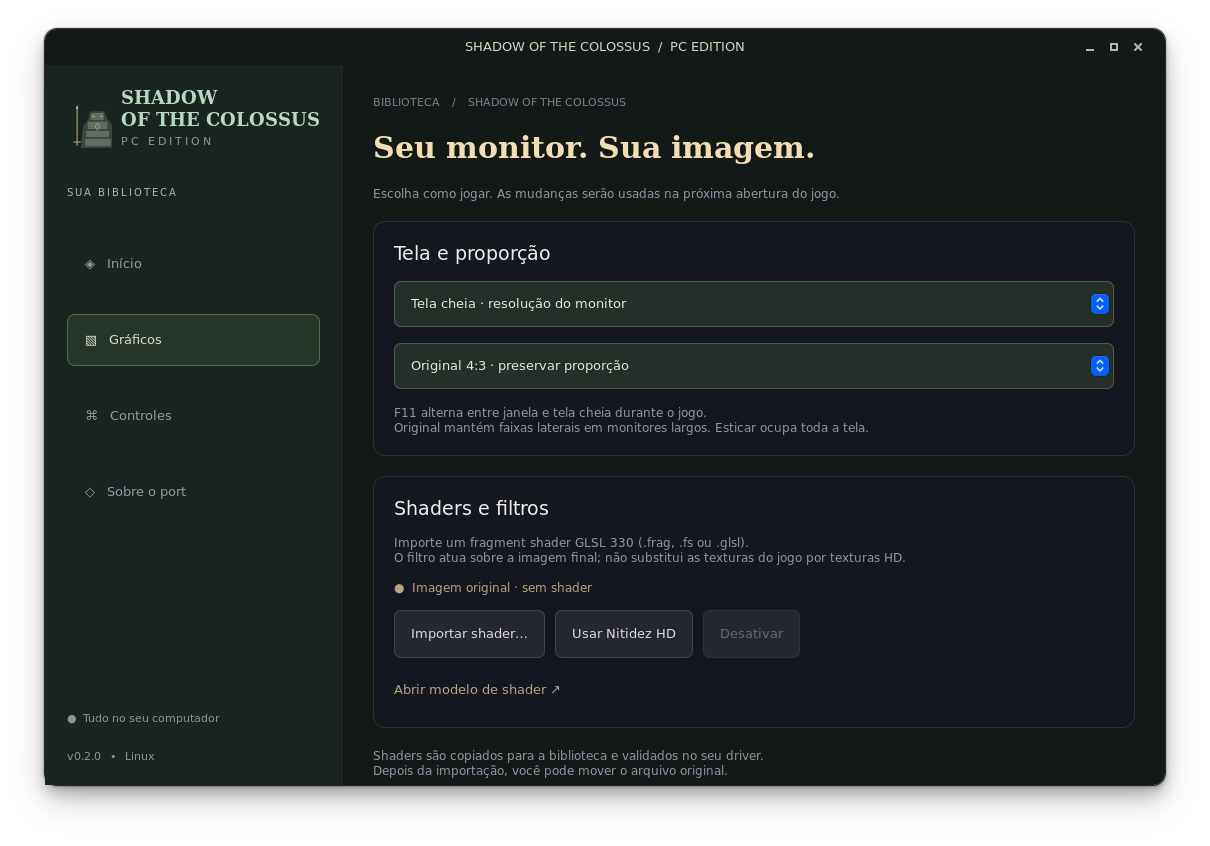
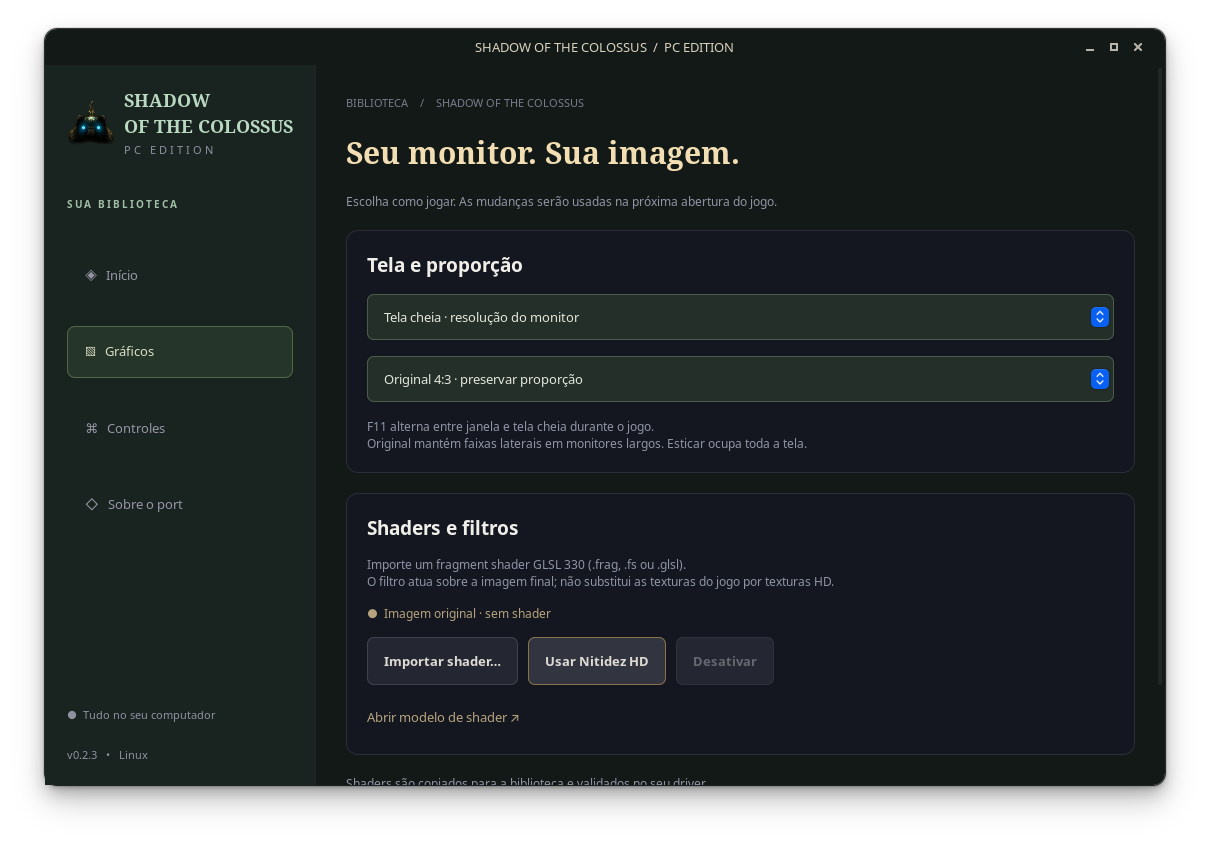
Refresh Linux launcher artwork and package version 0.2.3

diff --git a/tools/desktop/main.py b/tools/desktop/main.py
@@ -38,7 +38,7 @@ import gi
 gi.require_version("Gtk", "3.0")
 gi.require_version("Gdk", "3.0")
 gi.require_foreign("cairo")
-from gi.repository import Gdk, GLib, Gtk, Pango
+from gi.repository import Gdk, GdkPixbuf, GLib, Gtk, Pango
 import cairo
 
 
@@ -62,39 +62,59 @@ def box(orientation=Gtk.Orientation.VERTICAL, spacing=0, margin=0, classes=()):
     return widget
 
 
-def monument(cr, x, y, scale):
-    cr.save(); cr.translate(x,y); cr.scale(scale,scale)
-    # Original vector artwork: an ancient stone guardian and a sword of light.
-    cr.set_source_rgb(.23,.27,.25)
-    cr.move_to(-70,80); cr.line_to(-60,-14); cr.line_to(-38,-43); cr.line_to(-30,-76)
-    cr.line_to(28,-76); cr.line_to(42,-43); cr.line_to(64,-14); cr.line_to(76,80); cr.close_path(); cr.fill()
-    cr.set_source_rgb(.39,.42,.37)
-    for x1,y1,w,h in [(-28,-69,54,29),(-41,-32,82,30),(-48,6,96,25),(-52,39,107,30)]:
-        cr.rectangle(x1,y1,w,h); cr.fill()
-    cr.set_source_rgb(.43,.87,.78)
-    for dx in (-17,17): cr.rectangle(dx-5,-57,10,4); cr.fill()
-    cr.set_line_width(2); cr.move_to(0,-27);cr.line_to(-10,-12);cr.line_to(0,4);cr.line_to(10,-12);cr.close_path();cr.stroke()
-    cr.set_source_rgb(.76,.7,.53);cr.rectangle(-87,-88,4,155);cr.fill();cr.rectangle(-100,50,30,4);cr.fill()
-    cr.set_source_rgb(.65,.87,.8);cr.move_to(-85,-103);cr.line_to(-90,-86);cr.line_to(-80,-86);cr.close_path();cr.fill()
-    cr.restore()
-
-
 class Artwork(Gtk.DrawingArea):
+    """Responsive illustration, with actual transparent artwork for the brand."""
+    _images = {}
+
     def __init__(self, small=False):
-        super().__init__(); self.small=small
-        self.set_size_request(45 if small else 220,55 if small else 220)
-        self.connect("draw",self.draw)
-        self.get_accessible().set_name("Guardião de pedra e espada luminosa, ilustração decorativa")
+        super().__init__()
+        self.small = small
+        self.set_size_request(48 if small else 0, 64 if small else 260)
+        name = "icon.png" if small else "hero.png"
+        if name not in self._images:
+            self._images[name] = GdkPixbuf.Pixbuf.new_from_file(
+                str(assets_directory() / name))
+        self.picture = self._images[name]
+        self.connect("draw", self.draw)
+        self.get_accessible().set_name(
+            "Wander erguendo a espada sobre um colosso de olhos azuis")
 
     def draw(self, widget, cr):
-        w,h=self.get_allocated_width(),self.get_allocated_height()
-        if not self.small:
-            glow=cairo.RadialGradient(w/2,h/2,5,w/2,h/2,140)
-            glow.add_color_stop_rgba(0,.35,.7,.62,.18); glow.add_color_stop_rgba(1,.1,.1,.1,0)
-            cr.set_source(glow); cr.paint()
-            cr.set_source_rgba(.7,.7,.6,.15)
-            for dx in (20,170): cr.rectangle(dx,10,14,195);cr.fill()
-        monument(cr,w/2+8,h/2+12,.24 if self.small else .94)
+        w, h = self.get_allocated_width(), self.get_allocated_height()
+        iw, ih = self.picture.get_width(), self.picture.get_height()
+        cr.save()
+        if self.small:
+            scale = min(w / iw, h / ih)
+            cr.translate((w - iw * scale) / 2, (h - ih * scale) / 2)
+            cr.scale(scale, scale)
+            Gdk.cairo_set_source_pixbuf(cr, self.picture, 0, 0)
+            cr.paint()
+        else:
+            radius = 13
+            for cx, cy, start in ((w-radius, radius, -math.pi/2),
+                                  (w-radius, h-radius, 0),
+                                  (radius, h-radius, math.pi/2),
+                                  (radius, radius, math.pi)):
+                cr.arc(cx, cy, radius, start, start + math.pi/2)
+            cr.close_path()
+            cr.clip()
+            # Cover without distortion. Right alignment keeps Wander and the
+            # glowing eyes visible when the user makes the window narrower.
+            scale = max(w / iw, h / ih)
+            cr.save()
+            cr.translate(w - iw * scale, (h - ih * scale) / 2)
+            cr.scale(scale, scale)
+            Gdk.cairo_set_source_pixbuf(cr, self.picture, 0, 0)
+            cr.paint()
+            cr.restore()
+            # Keep copy readable even when a narrow window crops away the
+            # quiet left half of the wide illustration.
+            shade = cairo.LinearGradient(0, 0, min(w, 460), 0)
+            for at, alpha in ((0, .75), (.70, .80), (1, 0)):
+                shade.add_color_stop_rgba(at, .07, .11, .09, alpha)
+            cr.set_source(shade)
+            cr.paint()
+        cr.restore()
         return False
 
 
@@ -172,9 +192,13 @@ class Launcher:
 
     def home(self):
         page = box(spacing=22)
-        hero_outer = style(Gtk.Box(),"hero")
+        hero_outer = style(Gtk.Overlay(), "hero")
+        artwork = Artwork()
+        for edge in ("top", "bottom", "start", "end"):
+            getattr(artwork, "set_margin_" + edge)(1)
+        hero_outer.add(artwork)
         hero = box(Gtk.Orientation.HORIZONTAL, margin=24)
-        hero_outer.add(hero)
+        hero_outer.add_overlay(hero)
         copy = box(spacing=12)
         copy.pack_start(label("DAS TERRAS PROIBIDAS AO SEU PC", "eyebrow"),False,False,0)
         copy.pack_start(label("Shadow of the\nColossus", "hero-title",wrap=True),False,False,0)
@@ -183,7 +207,7 @@ class Launcher:
         for text in ("PORT NATIVO","JOGO ORIGINAL","OFFLINE"):
             pills.pack_start(label(text,"pill"),False,False,0)
         copy.pack_start(pills,False,False,4)
-        hero.pack_start(copy,True,True,0); hero.pack_end(Artwork(),False,False,0)
+        hero.pack_start(copy, True, True, 0)
         page.pack_start(hero_outer,False,False,0)
         panel_outer = style(Gtk.Box(orientation=Gtk.Orientation.VERTICAL),"panel")
         panel = box(spacing=17,margin=22); panel_outer.pack_start(panel,True,True,0)

diff --git a/tools/desktop/release/package_linux.py b/tools/desktop/release/package_linux.py
@@ -6,7 +6,7 @@ import shutil
 import tarfile
 ROOT=Path(__file__).resolve().parents[3]
 NAME='ShadowOfTheColossusPC'
-VERSION='0.2.2'
+VERSION='0.2.3'
 OUT=ROOT / 'dist' / NAME
 if OUT.exists():shutil.rmtree(OUT)
 shutil.copytree(ROOT / 'artifacts/frozen' / NAME,OUT)
@@ -49,6 +49,7 @@ O runtime e os scripts de build estão em compiler/source.
 GCC 13 e bibliotecas Ubuntu: fontes em https://archive.ubuntu.com/ubuntu/pool/
 (identificadas pelos pacotes em packages.txt); GCC em https://gcc.gnu.org/gcc-13/.
 
+Artes do launcher: _internal/assets/ARTWORK.md (origem e prompts das adaptações).
 Shadow of the Colossus pertence a Sony / Team Ico. Projeto independente.
 ''',encoding='utf-8')
 for p in OUT.rglob('*'):

diff --git a/tools/desktop/model.py b/tools/desktop/model.py
@@ -11,7 +11,7 @@ import tempfile
 from import_disc import import_disc, EXPECTED
 from pipeline import Pipeline
 
-VERSION = "0.2.2"
+VERSION = "0.2.3"
 SOURCE_ROOT = Path(__file__).resolve().parents[2]
 APPLICATION_ID = "io.github.GenissonEmilio.ShadowOfTheColossusPC"
 

diff --git a/tools/desktop/assets/ARTWORK.md b/tools/desktop/assets/ARTWORK.md
@@ -1,0 +1,20 @@
+# Launcher artwork
+
+`hero.png` and `icon.png` are adaptations of the illustration supplied by the
+project owner on 29 October 2026. They were edited with the built-in imagegen
+tool. They are separate from the GPL licensing of the launcher source code;
+no license to Sony / Team Ico characters or trademarks is granted by this repo.
+The original attachment is preserved in the owner's Downloads folder.
+
+The banner has a 3:1 composition and no baked-in UI text. GTK draws the real
+labels and buttons above it. The icon has an actual alpha channel, and is used
+by the sidebar, window and desktop shortcut. Artwork is loaded from bundled
+assets and does not require a network connection.
+
+## Banner prompt
+
+Use case: precise-object-edit. Asset type: wide desktop game launcher hero banner, 3:1 landscape composition. Edit target: supplied illustration of Wander raising his sword on the giant colossus with cyan eyes. Preserve the original illustrated appearance, the character pose, sword, the colossus face, cyan glowing eyes, and birds. Remove the entire purple console frame and PS2 badge, without replacing them with any text or marks. Recompose for a wide 3:1 landscape banner: the full sword, Wander and both eyes must fit comfortably in the RIGHT half of the image; the LEFT half is quiet, almost solid deep forest green #1f2b24 to hold actual UI text later. Blend the illuminated misty sky into that dark green smoothly across the middle, with no vertical seam. Match an atmospheric dark green, muted gold and cyan game launcher. No lettering, no UI, no frame, no icons, no logos. Keep the sword tip and both glowing eyes inside the canvas, with some breathing room. Finished production artwork, not a screenshot.
+
+## Icon prompt
+
+Use case: background-extraction. Asset type: transparent square desktop launcher icon and small sidebar emblem. Edit the supplied illustration: retain the colossus head with both glowing cyan eyes, dark shaggy fur, its forehead crest, and the full silhouette of Wander standing on top raising his sword. Preserve the original style, colors and pose. Remove the purple border, the PS2 badge, all text, sky and birds entirely. Real transparent background outside the silhouette. Compose the head centered, approximately symmetrical, sword tip inside the square canvas with 5% clear padding. Fur and head occupy the lower two-thirds; Wander and raised sword occupy the upper third. At the bottom, fade the black neck smoothly into transparency. High contrast cyan eyes readable at small icon sizes. No frame, no console logo, no text, no extra objects.

diff --git a/docs/RELEASE-linux-v0.2.3.md b/docs/RELEASE-linux-v0.2.3.md
@@ -1,0 +1,26 @@
+## Launcher com a identidade de Shadow of the Colossus
+
+- Novo banner com Wander e o colosso, baseado na arte enviada pelo usuário.
+- Ícone transparente no launcher, janela e atalho do Linux.
+- Ilustração proporcional ao redimensionar; texto e botões continuam sendo
+  elementos reais da interface. Gráficos, shaders e configuração de controle
+  continuam disponíveis.
+- A automação verifica as imagens empacotadas e abre as quatro páginas do
+  launcher sem precisar de ROM.
+
+## Integridade do runtime
+
+Corrigida uma sobreposição de memória: após onze pilhas de callbacks, a pilha
+seguinte podia ocupar o espaço dos serviços RPC/TLS/boot. O alocador agora
+preserva esses intervalos, inclusive em pedidos maiores e alinhados.
+A regressão falhou na biblioteca anterior e passou na nova. Os dez testes de
+interrupções e os 18 testes Python passaram.
+
+**A queda através do altar e da rampa de Gaius continua em investigação.**
+A correção de memória não é apresentada como solução confirmada desse relato.
+Os problemas de efeitos de derrota e raios de Hydrus também continuam abertos.
+A PR de validação permanece aberta.
+
+O pacote inclui o compilador Linux e não contém ROM, BIOS, saves nem código
+gerado a partir do disco. Use a edição USA SCUS-97472 já importada ou escolha
+seu disco no launcher. Saves e configurações permanecem na pasta de dados.
